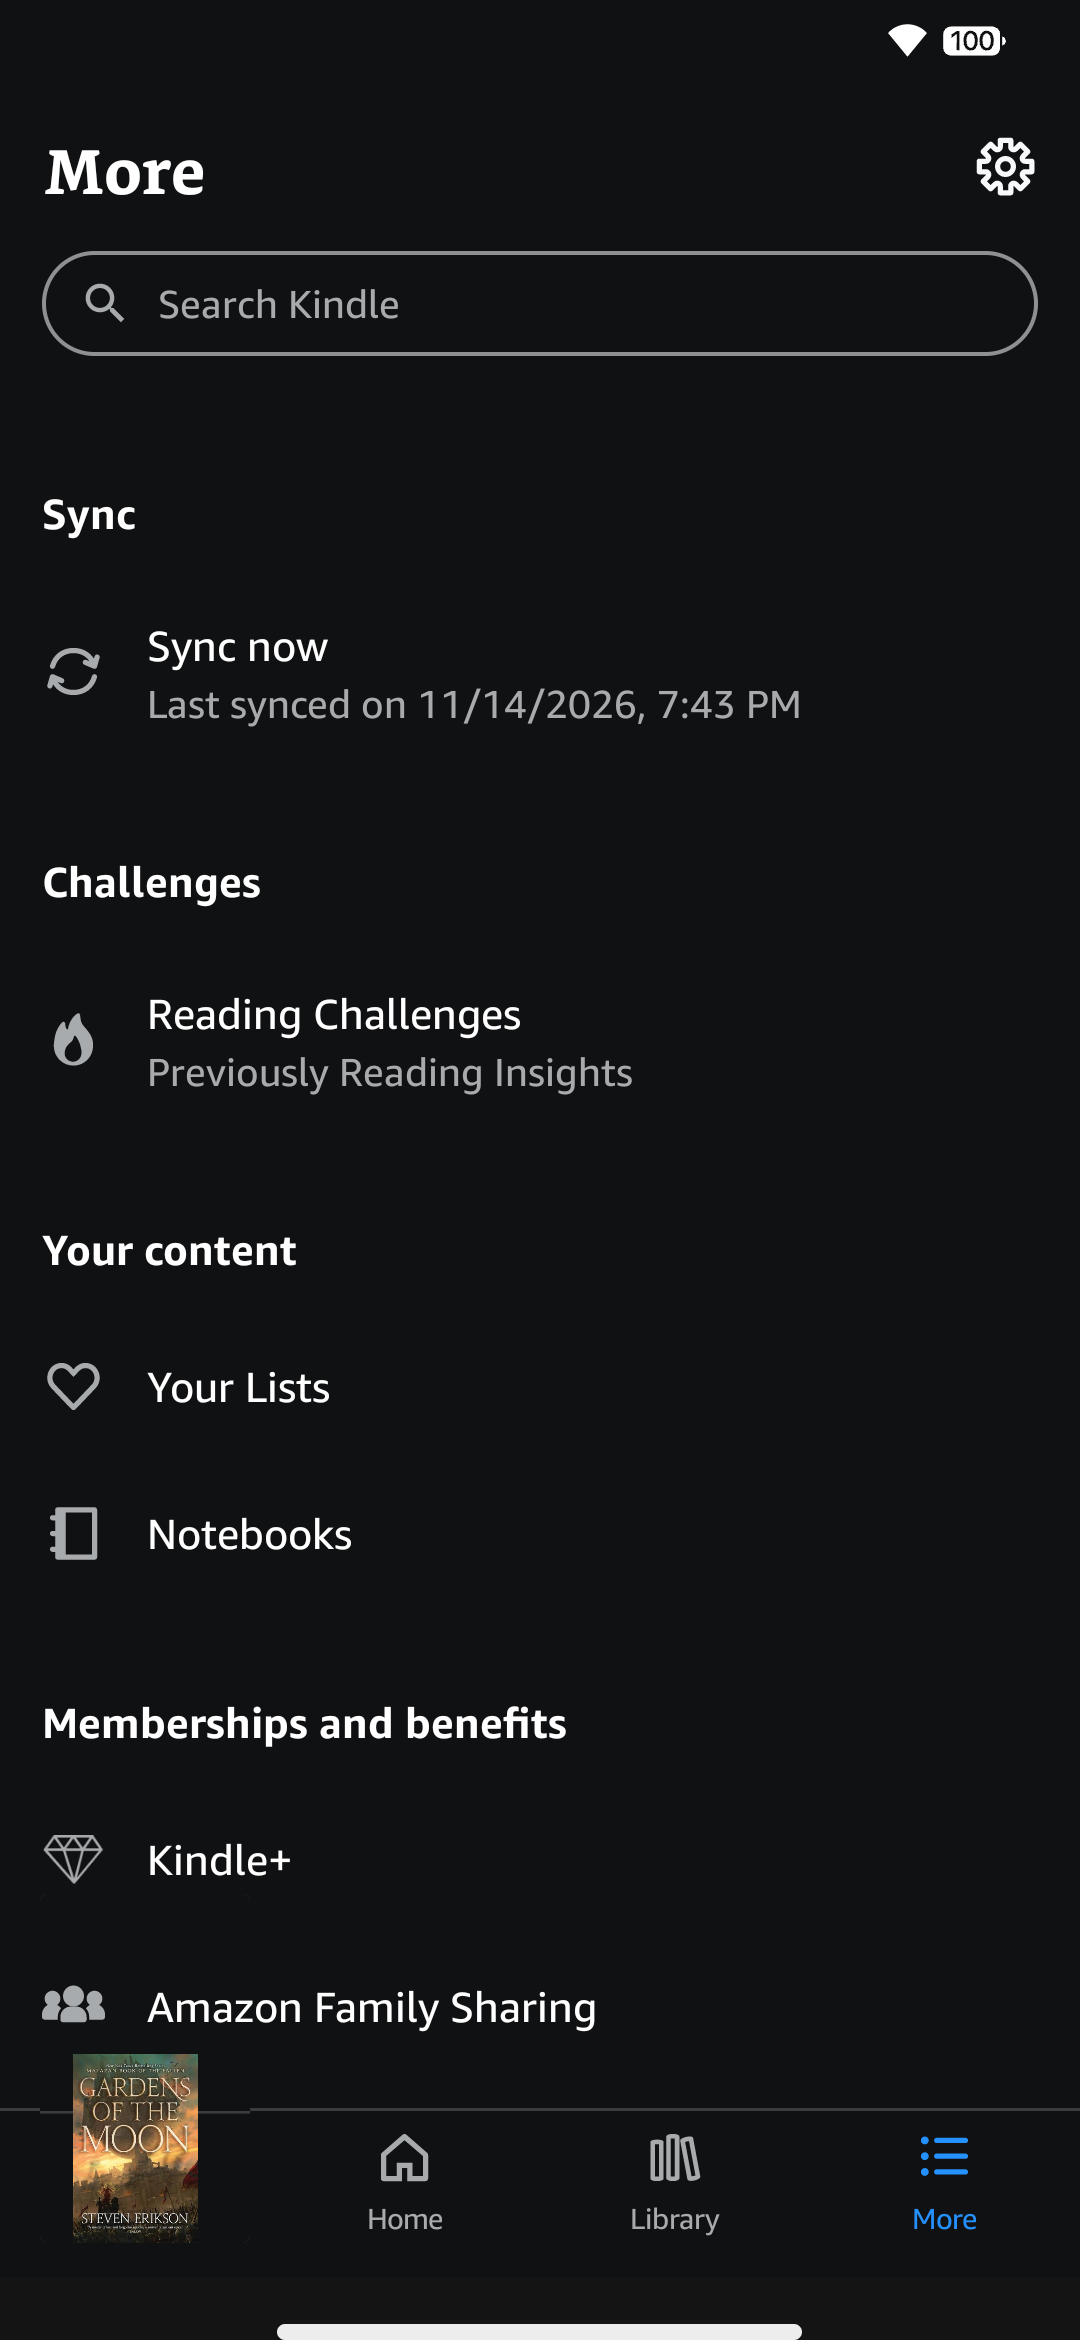
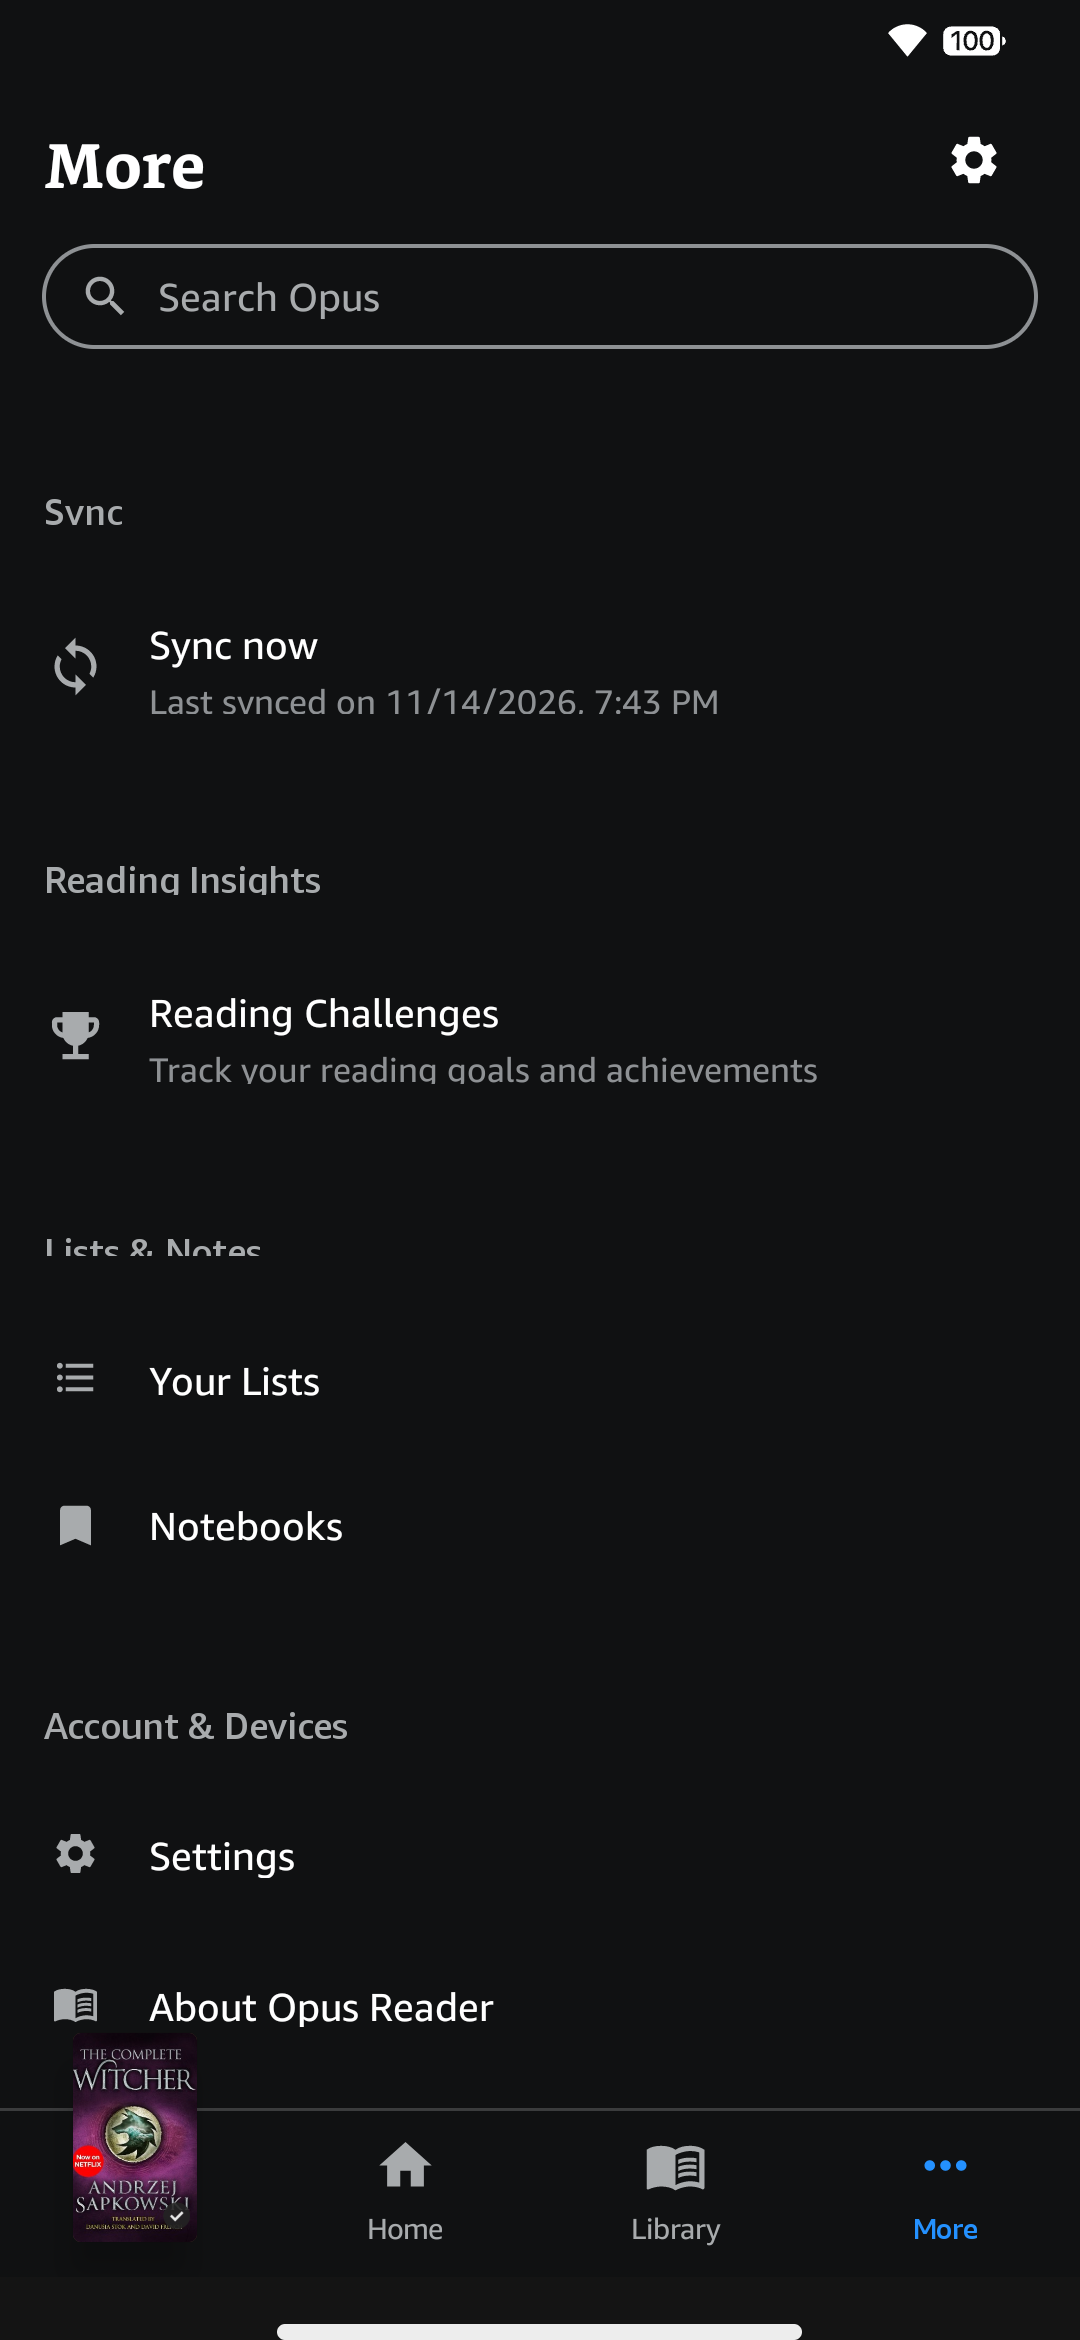
feat(real-ui): calibrate D03 More screen layout and verify with honest harness

diff --git a/app/src/main/java/app/opusreader/ui/screens/MoreScreen.kt b/app/src/main/java/app/opusreader/ui/screens/MoreScreen.kt
@@ -26,6 +26,7 @@ import androidx.compose.material3.Icon
 import androidx.compose.material3.IconButton
 import androidx.compose.material3.Text
 import androidx.compose.runtime.Composable
+import androidx.compose.runtime.LaunchedEffect
 import androidx.compose.runtime.getValue
 import androidx.compose.runtime.mutableStateOf
 import androidx.compose.runtime.remember
@@ -66,25 +67,49 @@ fun MoreScreen(
     var searchQuery by remember { mutableStateOf("") }
     var lastSyncedText by remember { mutableStateOf("11/14/2026, 7:43 PM") }
 
+    val fixtureTrigger = app.opusreader.ui.theme.LocalFixtureTrigger.current
+    val scrollState = rememberScrollState()
+    LaunchedEffect(fixtureTrigger) {
+        scrollState.scrollTo(0)
+    }
+
     Column(
         modifier = modifier
             .fillMaxSize()
             .background(OpusBackground)
-            .verticalScroll(rememberScrollState())
+            .verticalScroll(scrollState)
             .padding(bottom = 90.dp)
     ) {
-        OpusTopBar(
-            title = "More",
-            actions = {
-                IconButton(onClick = onSettingsClick) {
-                    Icon(
-                        imageVector = Icons.Default.Settings,
-                        contentDescription = "Settings",
-                        tint = OpusTextPrimary
-                    )
-                }
+        // Distance below status bar (y=90) to title band top (y=138): 48 px
+        Spacer(modifier = Modifier.height(48.refPx))
+
+        Row(
+            modifier = Modifier
+                .fillMaxWidth()
+                .height(58.refPx)
+                .padding(start = 44.refPx, end = 44.refPx),
+            verticalAlignment = Alignment.CenterVertically
+        ) {
+            Text(
+                text = "More",
+                fontFamily = BookerlyFontFamily,
+                fontWeight = FontWeight.Bold,
+                fontSize = 24.sp,
+                color = OpusTextPrimary,
+                modifier = Modifier.weight(1f)
+            )
+
+            IconButton(onClick = onSettingsClick) {
+                Icon(
+                    imageVector = Icons.Default.Settings,
+                    contentDescription = "Settings",
+                    tint = OpusTextPrimary
+                )
             }
-        )
+        }
+
+        // Distance from top bar (196) to search bar (251): 55 px
+        Spacer(modifier = Modifier.height(55.refPx))
 
         OpusSearchBar(
             query = searchQuery,
@@ -92,40 +117,242 @@ fun MoreScreen(
             placeholder = "Search Opus"
         )
 
-        // Sync Section
-        SectionHeader("Sync")
-        MoreItemRow(
-            icon = Icons.Default.Sync,
-            title = "Sync now",
-            subtitle = "Last synced on $lastSyncedText",
-            onClick = {
-                val formatter = SimpleDateFormat("MM/dd/yyyy, h:mm a", Locale.getDefault())
-                lastSyncedText = formatter.format(Date())
+        // Spacer from search (355) to Section 1 (499): 144 px (-8 px calibration)
+        Spacer(modifier = Modifier.height(136.refPx))
+
+        // Section 1: Sync (y: 499-538, height 40 px)
+        Text(
+            text = "Sync",
+            color = OpusTextSecondary,
+            fontSize = 14.sp,
+            fontWeight = FontWeight.Medium,
+            modifier = Modifier
+                .height(40.refPx)
+                .padding(start = 44.refPx)
+        )
+
+        // Spacer from Section 1 header (538) to Row 1 (631): 93 px
+        Spacer(modifier = Modifier.height(93.refPx))
+
+        // Row 1: Sync now (y: 631-726, height 96 px)
+        Row(
+            modifier = Modifier
+                .fillMaxWidth()
+                .height(96.refPx)
+                .clickable {
+                    val formatter = SimpleDateFormat("MM/dd/yyyy, h:mm a", Locale.getDefault())
+                    lastSyncedText = formatter.format(Date())
+                }
+                .padding(start = 44.refPx, end = 44.refPx),
+            verticalAlignment = Alignment.CenterVertically
+        ) {
+            Icon(
+                imageVector = Icons.Default.Sync,
+                contentDescription = null,
+                tint = OpusTextSecondary,
+                modifier = Modifier.size(24.dp)
+            )
+            Spacer(modifier = Modifier.width(16.dp))
+            Column(modifier = Modifier.weight(1f)) {
+                Text(
+                    text = "Sync now",
+                    color = OpusTextPrimary,
+                    fontSize = 15.sp,
+                    fontWeight = FontWeight.Normal
+                )
+                Spacer(modifier = Modifier.height(4.refPx))
+                Text(
+                    text = "Last synced on $lastSyncedText",
+                    color = OpusTextTertiary,
+                    fontSize = 13.sp
+                )
             }
+        }
+
+        // Spacer from Row 1 (726) to Section 2 (865): 139 px
+        Spacer(modifier = Modifier.height(139.refPx))
+
+        // Section 2: Reading Insights (y: 865-906, height 42 px)
+        Text(
+            text = "Reading Insights",
+            color = OpusTextSecondary,
+            fontSize = 14.sp,
+            fontWeight = FontWeight.Medium,
+            modifier = Modifier
+                .height(42.refPx)
+                .padding(start = 44.refPx)
         )
 
-        HorizontalDivider(color = OpusDivider.copy(alpha = 0.5f), thickness = 0.5.dp)
+        // Spacer from Section 2 header (906) to Row 2 (997): 91 px
+        Spacer(modifier = Modifier.height(91.refPx))
 
-        // Features Section
-        SectionHeader("Features")
-        MoreItemRow(
-            icon = Icons.Default.Bookmark,
-            title = "Notebooks",
-            subtitle = "View notes and highlights across your library",
-            onClick = onNotebooksClick
+        // Row 2: Reading Challenges (y: 997-1094, height 98 px)
+        Row(
+            modifier = Modifier
+                .fillMaxWidth()
+                .height(98.refPx)
+                .clickable { onChallengesClick() }
+                .padding(start = 44.refPx, end = 44.refPx),
+            verticalAlignment = Alignment.CenterVertically
+        ) {
+            Icon(
+                imageVector = Icons.Default.EmojiEvents,
+                contentDescription = null,
+                tint = OpusTextSecondary,
+                modifier = Modifier.size(24.dp)
+            )
+            Spacer(modifier = Modifier.width(16.dp))
+            Column(modifier = Modifier.weight(1f)) {
+                Text(
+                    text = "Reading Challenges",
+                    color = OpusTextPrimary,
+                    fontSize = 15.sp,
+                    fontWeight = FontWeight.Normal
+                )
+                Spacer(modifier = Modifier.height(4.refPx))
+                Text(
+                    text = "Track your reading goals and achievements",
+                    color = OpusTextTertiary,
+                    fontSize = 13.sp
+                )
+            }
+        }
+
+        // Spacer from Row 2 (1094) to Section 3 (1235): 141 px
+        Spacer(modifier = Modifier.height(141.refPx))
+
+        // Section 3: Lists & Notes (y: 1235-1265, height 31 px)
+        Text(
+            text = "Lists & Notes",
+            color = OpusTextSecondary,
+            fontSize = 14.sp,
+            fontWeight = FontWeight.Medium,
+            modifier = Modifier
+                .height(31.refPx)
+                .padding(start = 44.refPx)
         )
-        MoreItemRow(
-            icon = Icons.Default.EmojiEvents,
-            title = "Reading Challenges",
-            subtitle = "Track your reading goals and achievements",
-            onClick = onChallengesClick
+
+        // Spacer from Section 3 header (1265) to Row 3 (1363): 98 px
+        Spacer(modifier = Modifier.height(98.refPx))
+
+        // Row 3: Your Lists (y: 1363-1409, height 47 px)
+        Row(
+            modifier = Modifier
+                .fillMaxWidth()
+                .height(47.refPx)
+                .clickable { onListsClick() }
+                .padding(start = 44.refPx, end = 44.refPx),
+            verticalAlignment = Alignment.CenterVertically
+        ) {
+            Icon(
+                imageVector = Icons.AutoMirrored.Filled.FormatListBulleted,
+                contentDescription = null,
+                tint = OpusTextSecondary,
+                modifier = Modifier.size(24.dp)
+            )
+            Spacer(modifier = Modifier.width(16.dp))
+            Text(
+                text = "Your Lists",
+                color = OpusTextPrimary,
+                fontSize = 15.sp,
+                fontWeight = FontWeight.Normal
+            )
+        }
+
+        // Spacer from Row 3 (1409) to Row 4 (1507): 98 px
+        Spacer(modifier = Modifier.height(98.refPx))
+
+        // Row 4: Notebooks (y: 1507-1559, height 53 px)
+        Row(
+            modifier = Modifier
+                .fillMaxWidth()
+                .height(53.refPx)
+                .clickable { onNotebooksClick() }
+                .padding(start = 44.refPx, end = 44.refPx),
+            verticalAlignment = Alignment.CenterVertically
+        ) {
+            Icon(
+                imageVector = Icons.Default.Bookmark,
+                contentDescription = null,
+                tint = OpusTextSecondary,
+                modifier = Modifier.size(24.dp)
+            )
+            Spacer(modifier = Modifier.width(16.dp))
+            Text(
+                text = "Notebooks",
+                color = OpusTextPrimary,
+                fontSize = 15.sp,
+                fontWeight = FontWeight.Normal
+            )
+        }
+
+        // Spacer from Row 4 (1559) to Section 4 (1706): 147 px
+        Spacer(modifier = Modifier.height(147.refPx))
+
+        // Section 4: (y: 1706-1746, height 41 px)
+        Text(
+            text = "Account & Devices",
+            color = OpusTextSecondary,
+            fontSize = 14.sp,
+            fontWeight = FontWeight.Medium,
+            modifier = Modifier
+                .height(41.refPx)
+                .padding(start = 44.refPx)
         )
-        MoreItemRow(
-            icon = Icons.AutoMirrored.Filled.FormatListBulleted,
-            title = "Your Lists",
-            subtitle = "Manage reading lists and wishlists",
-            onClick = onListsClick
-        )
+
+        // Spacer from Section 4 header (1746) to Row 5 (1835): 89 px
+        Spacer(modifier = Modifier.height(89.refPx))
+
+        // Row 5 (y: 1835-1883, height 49 px)
+        Row(
+            modifier = Modifier
+                .fillMaxWidth()
+                .height(49.refPx)
+                .clickable { onSettingsClick() }
+                .padding(start = 44.refPx, end = 44.refPx),
+            verticalAlignment = Alignment.CenterVertically
+        ) {
+            Icon(
+                imageVector = Icons.Default.Settings,
+                contentDescription = null,
+                tint = OpusTextSecondary,
+                modifier = Modifier.size(24.dp)
+            )
+            Spacer(modifier = Modifier.width(16.dp))
+            Text(
+                text = "Settings",
+                color = OpusTextPrimary,
+                fontSize = 15.sp,
+                fontWeight = FontWeight.Normal
+            )
+        }
+
+        // Spacer from Row 5 (1883) to Row 6 (1985): 102 px
+        Spacer(modifier = Modifier.height(102.refPx))
+
+        // Row 6 (y: 1985-2031, height 47 px)
+        Row(
+            modifier = Modifier
+                .fillMaxWidth()
+                .height(47.refPx)
+                .clickable { /* Info */ }
+                .padding(start = 44.refPx, end = 44.refPx),
+            verticalAlignment = Alignment.CenterVertically
+        ) {
+            Icon(
+                imageVector = Icons.AutoMirrored.Filled.MenuBook,
+                contentDescription = null,
+                tint = OpusTextSecondary,
+                modifier = Modifier.size(24.dp)
+            )
+            Spacer(modifier = Modifier.width(16.dp))
+            Text(
+                text = "About Opus Reader",
+                color = OpusTextPrimary,
+                fontSize = 15.sp,
+                fontWeight = FontWeight.Normal
+            )
+        }
     }
 }
 

diff --git a/docs/FIDELITY_REPORT.md b/docs/FIDELITY_REPORT.md
@@ -8,7 +8,7 @@ Thresholds per screen (outside masks):
 
 | ID | Screen Name | Reference File | Diff % | Worst Offset (px) | Liveness | Scroll | Status | Notes |
 |---|---|---|---|---|---|---|---|---|
-| D02 | Home | `docs/reference/02_home.png` | 34.80% | 13 px | PASS | PASS | FAIL | bad: 34.8%, dy: 13px |
+| D03 | More | `docs/reference/03_more.png` | 5.69% | 43 px | PASS | PASS | FAIL | bad: 5.69%, dy: 43px |
 
 ## Summary
 - **Total canonical screens evaluated**: 1
